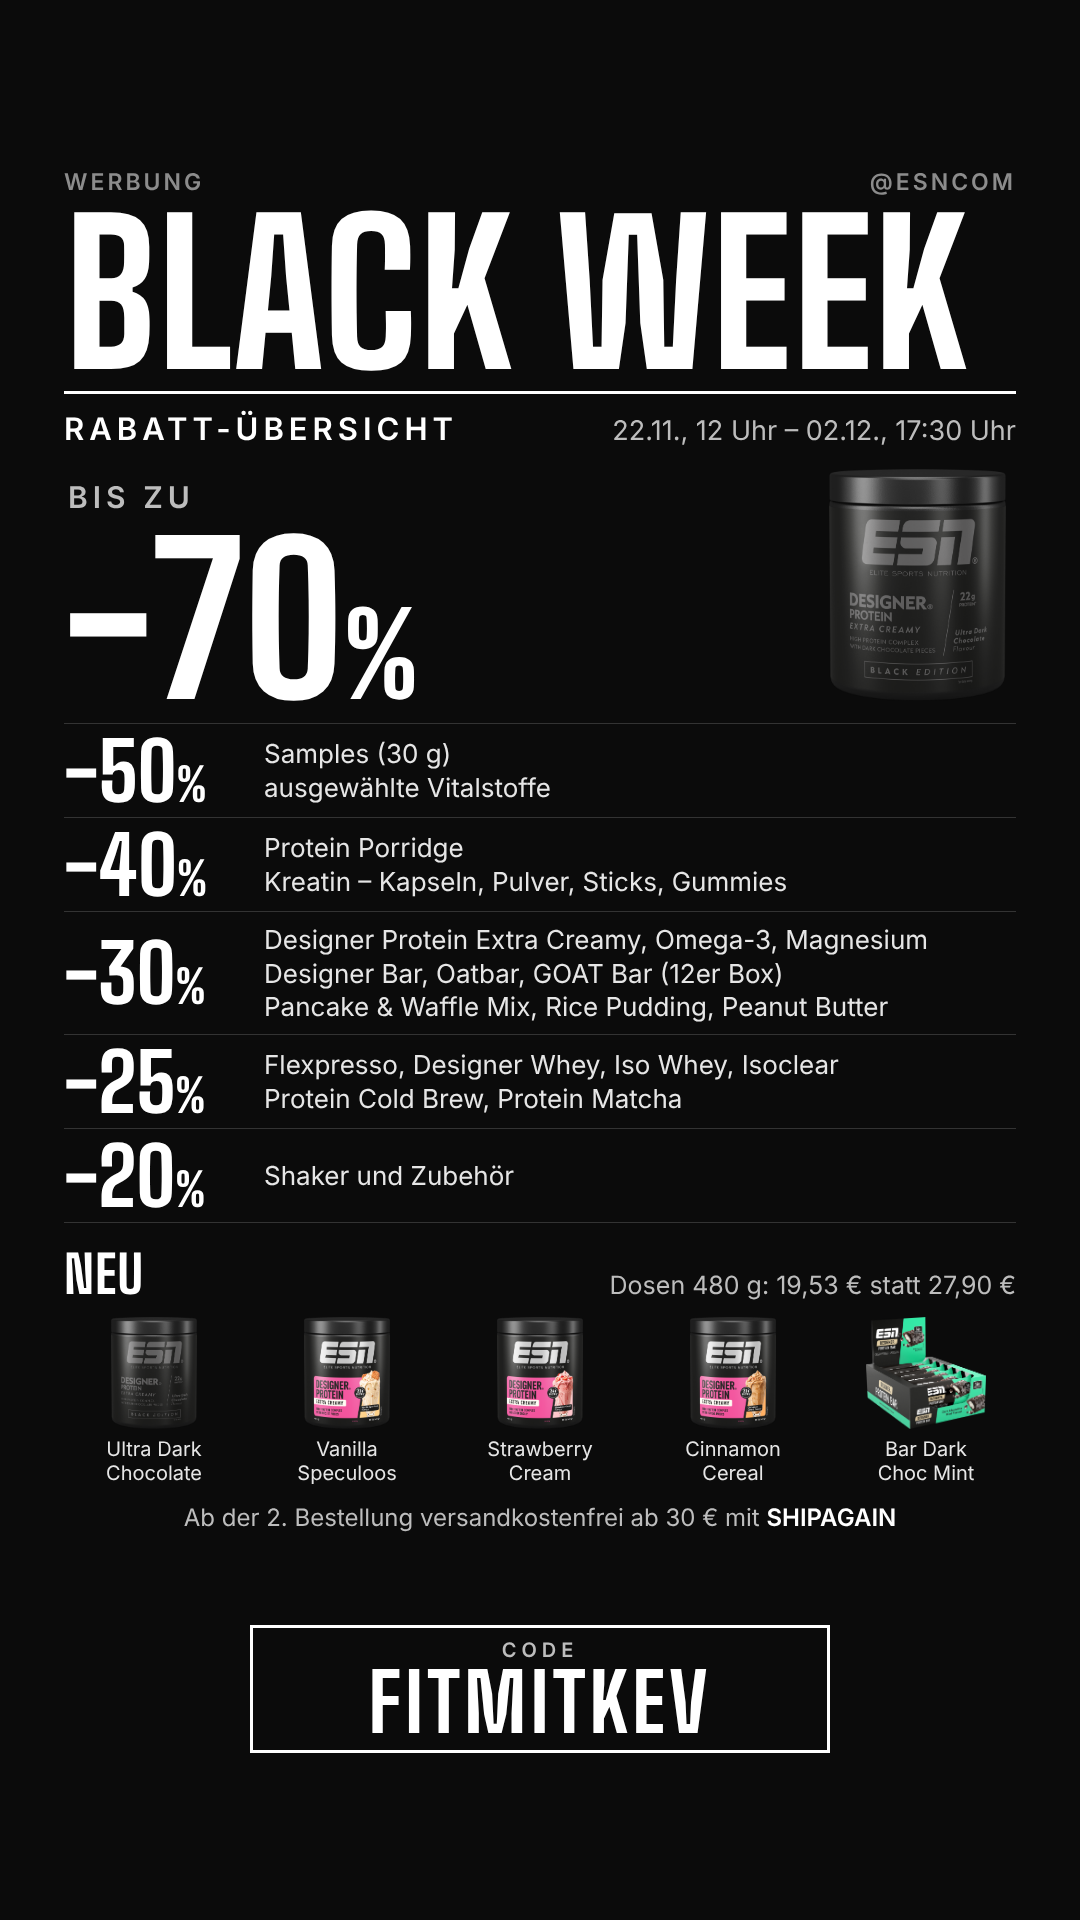
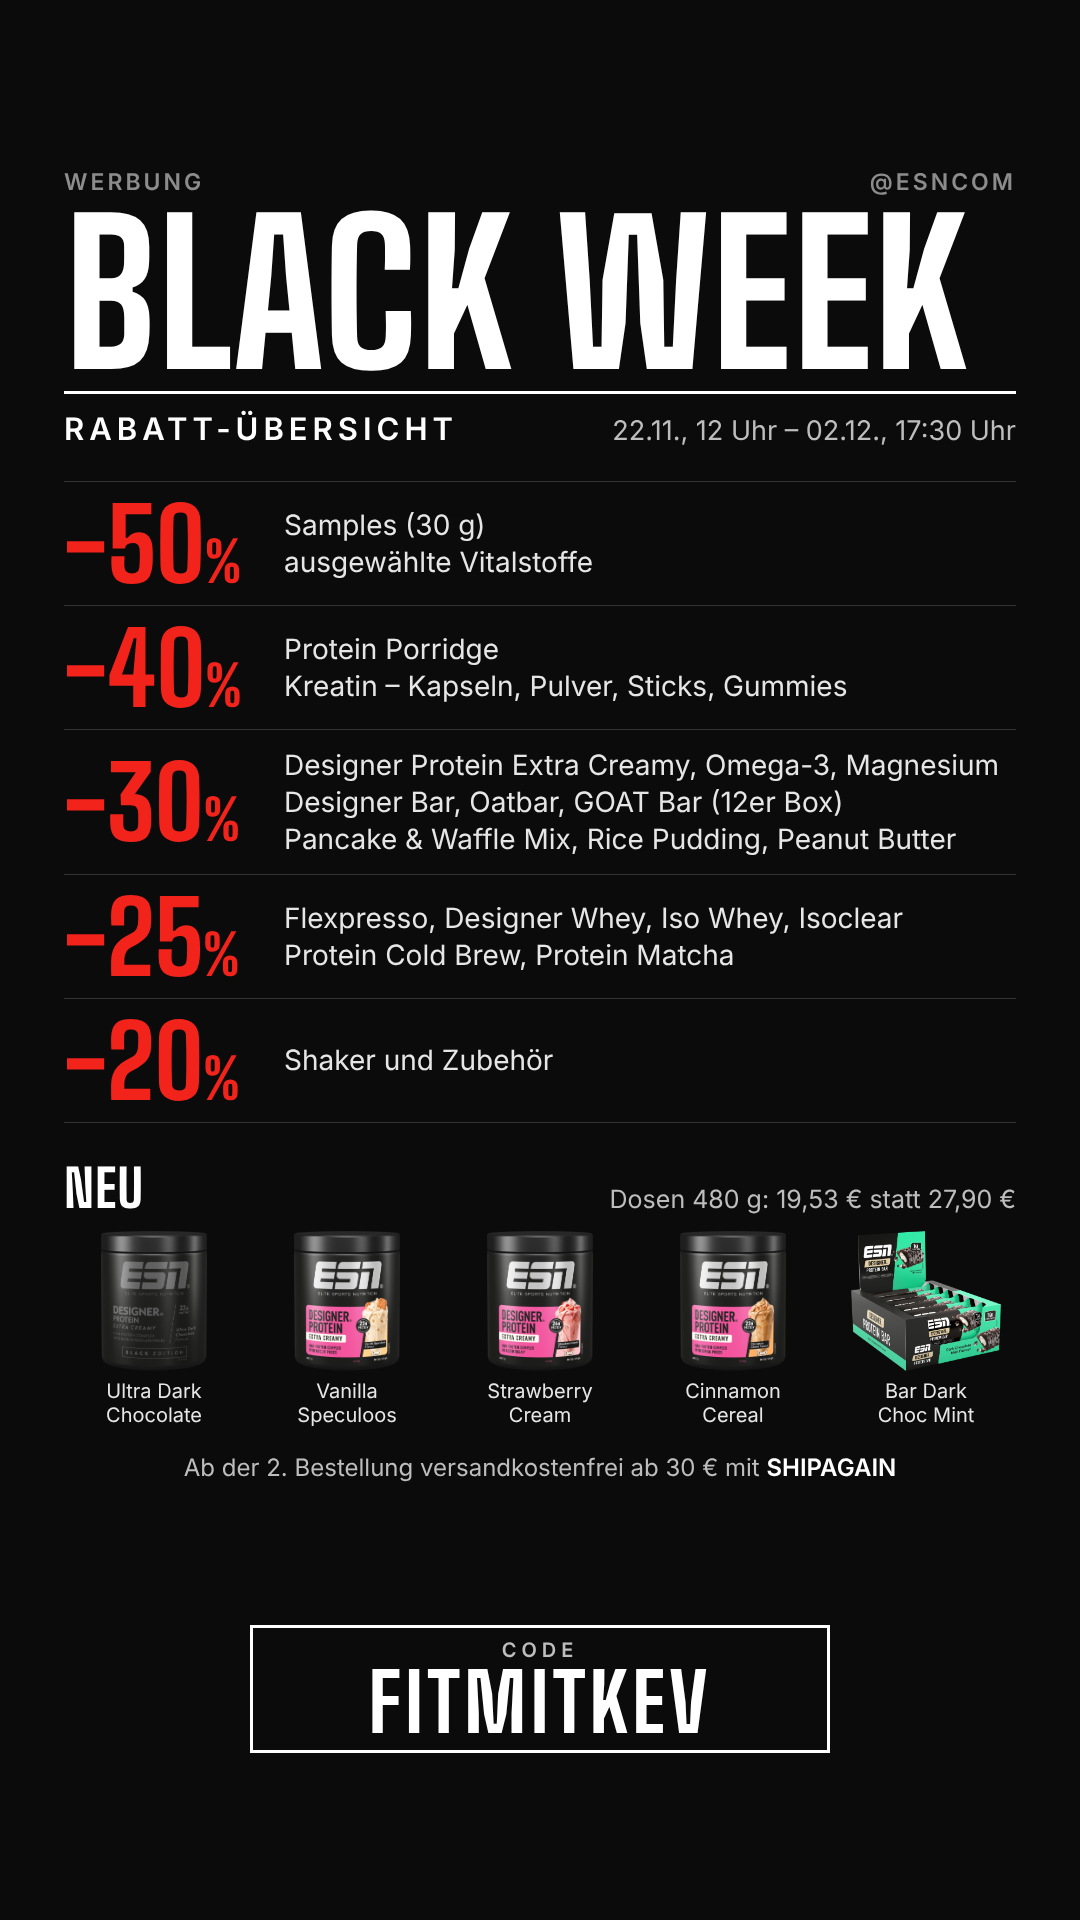
ESN-Story: -70 % raus, Prozente in Rot
Claude-Session: https://claude.ai/code/session_01KPVmpRePrZAkggdzf7KsfK

Changed region(s): [[0.0611, 0.2188, 0.9472, 0.8125], [0.3972, 0.625, 0.9472, 0.8125]]

diff --git a/tools/esn_story/story.py b/tools/esn_story/story.py
@@ -29,25 +29,26 @@ body{{width:1080px;height:1920px;background:#0b0b0b;color:#fff;font-family:IN;ov
 .sub{{display:flex;justify-content:space-between;align-items:baseline;margin-top:18px;border-top:3px solid #fff;padding-top:16px}}
 .sub b{{font-size:31px;font-weight:600;letter-spacing:5px}}
 .sub span{{font-size:27px;color:#bdbdbd}}
+.gap{{height:34px}}
 .hero{{position:relative;height:262px;margin-top:14px}}
 .bis{{position:absolute;left:4px;top:18px;font-size:30px;font-weight:600;letter-spacing:5px;color:#bdbdbd}}
 .big{{position:absolute;left:0;top:72px;font-family:BS;font-size:205px;line-height:.85}}
 .big span{{font-size:115px}}
 .tub{{position:absolute;right:10px;top:8px;height:232px}}
-.row{{display:flex;border-top:1px solid #333;padding:11px 0 10px;align-items:center}}
+.row{{display:flex;border-top:1px solid #333;padding:17px 0 16px;align-items:center}}
 .row.l{{border-bottom:1px solid #333}}
-.p{{width:200px;font-family:BS;font-size:80px;line-height:.9}}
-.p span{{font-size:46px}}
-.it{{font-size:26px;line-height:1.3;color:#e6e6e6}}
-.neu{{display:flex;justify-content:space-between;align-items:baseline;margin-top:20px}}
+.p{{width:220px;font-family:BS;font-size:100px;line-height:.9;color:#f2231b}}
+.p span{{font-size:56px}}
+.it{{font-size:28px;line-height:1.32;color:#e6e6e6}}
+.neu{{display:flex;justify-content:space-between;align-items:baseline;margin-top:34px}}
 .neu b{{font-family:BS;font-size:52px;letter-spacing:1px}}
 .neu span{{font-size:25px;color:#bdbdbd}}
 .ncs{{display:flex;justify-content:space-between;margin-top:12px}}
 .nc{{width:180px;text-align:center}}
-.im{{height:112px;display:flex;align-items:flex-end;justify-content:center}}
-.im img{{max-height:112px;max-width:160px}}
+.im{{height:140px;display:flex;align-items:flex-end;justify-content:center}}
+.im img{{max-height:140px;max-width:170px}}
 .nn{{font-size:20px;line-height:1.2;margin-top:8px;color:#e6e6e6}}
-.ship{{margin-top:18px;font-size:24px;color:#bdbdbd;text-align:center}}
+.ship{{margin-top:26px;font-size:24px;color:#bdbdbd;text-align:center}}
 .ship b{{color:#fff;font-weight:600}}
 .code{{position:absolute;left:250px;right:250px;top:1625px;border:3px solid #fff;text-align:center;padding:10px 0 8px}}
 .code small{{display:block;font-size:20px;font-weight:600;letter-spacing:5px;color:#bdbdbd}}
@@ -56,7 +57,7 @@ body{{width:1080px;height:1920px;background:#0b0b0b;color:#fff;font-family:IN;ov
 <div class="top"><span>Werbung</span><span>@esncom</span></div>
 <div class="h">Black Week</div>
 <div class="sub"><b>RABATT-ÜBERSICHT</b><span>22.11., 12 Uhr – 02.12., 17:30 Uhr</span></div>
-<div class="hero"><div class="bis">BIS ZU</div><div class="big">-70<span>%</span></div><img class="tub" src="file://{B}extra-creamy-black-edition-ultra-dark.png"></div>
+<div class="gap"></div>
 {rows}
 <div class="neu"><b>NEU</b><span>Dosen 480 g: 19,53 € statt 27,90 €</span></div>
 <div class="ncs">{cards}</div>
